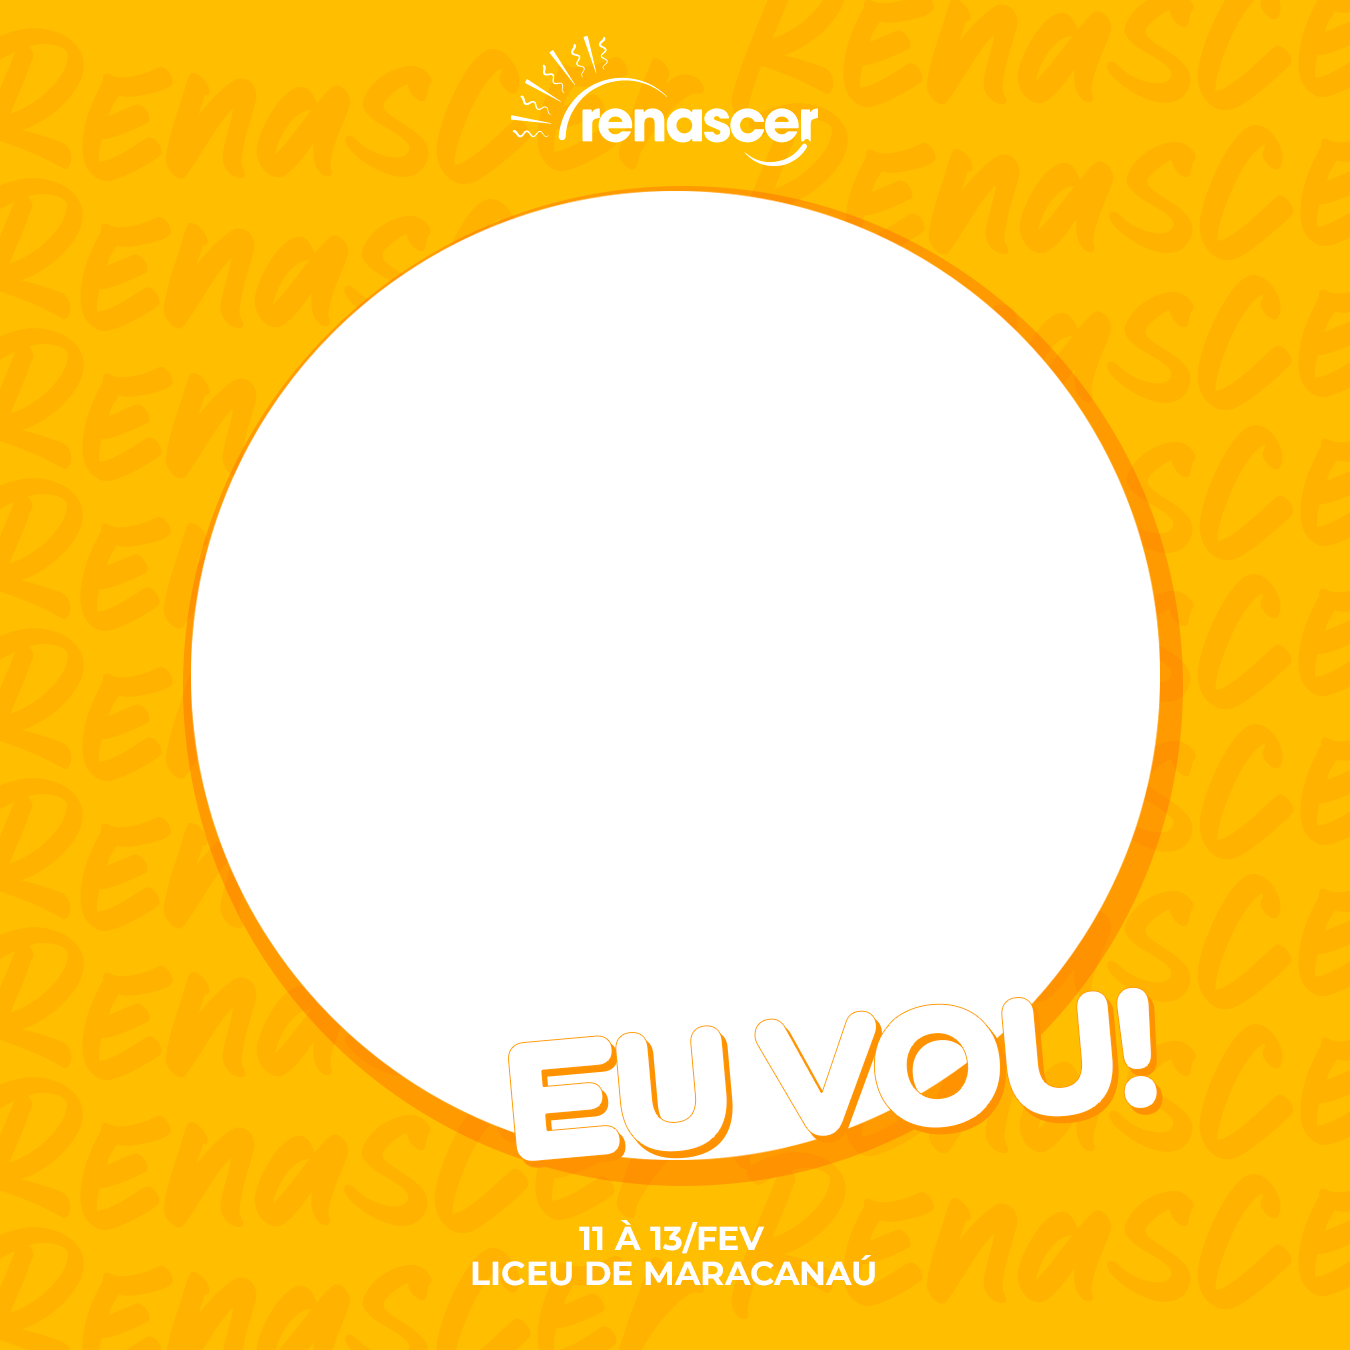
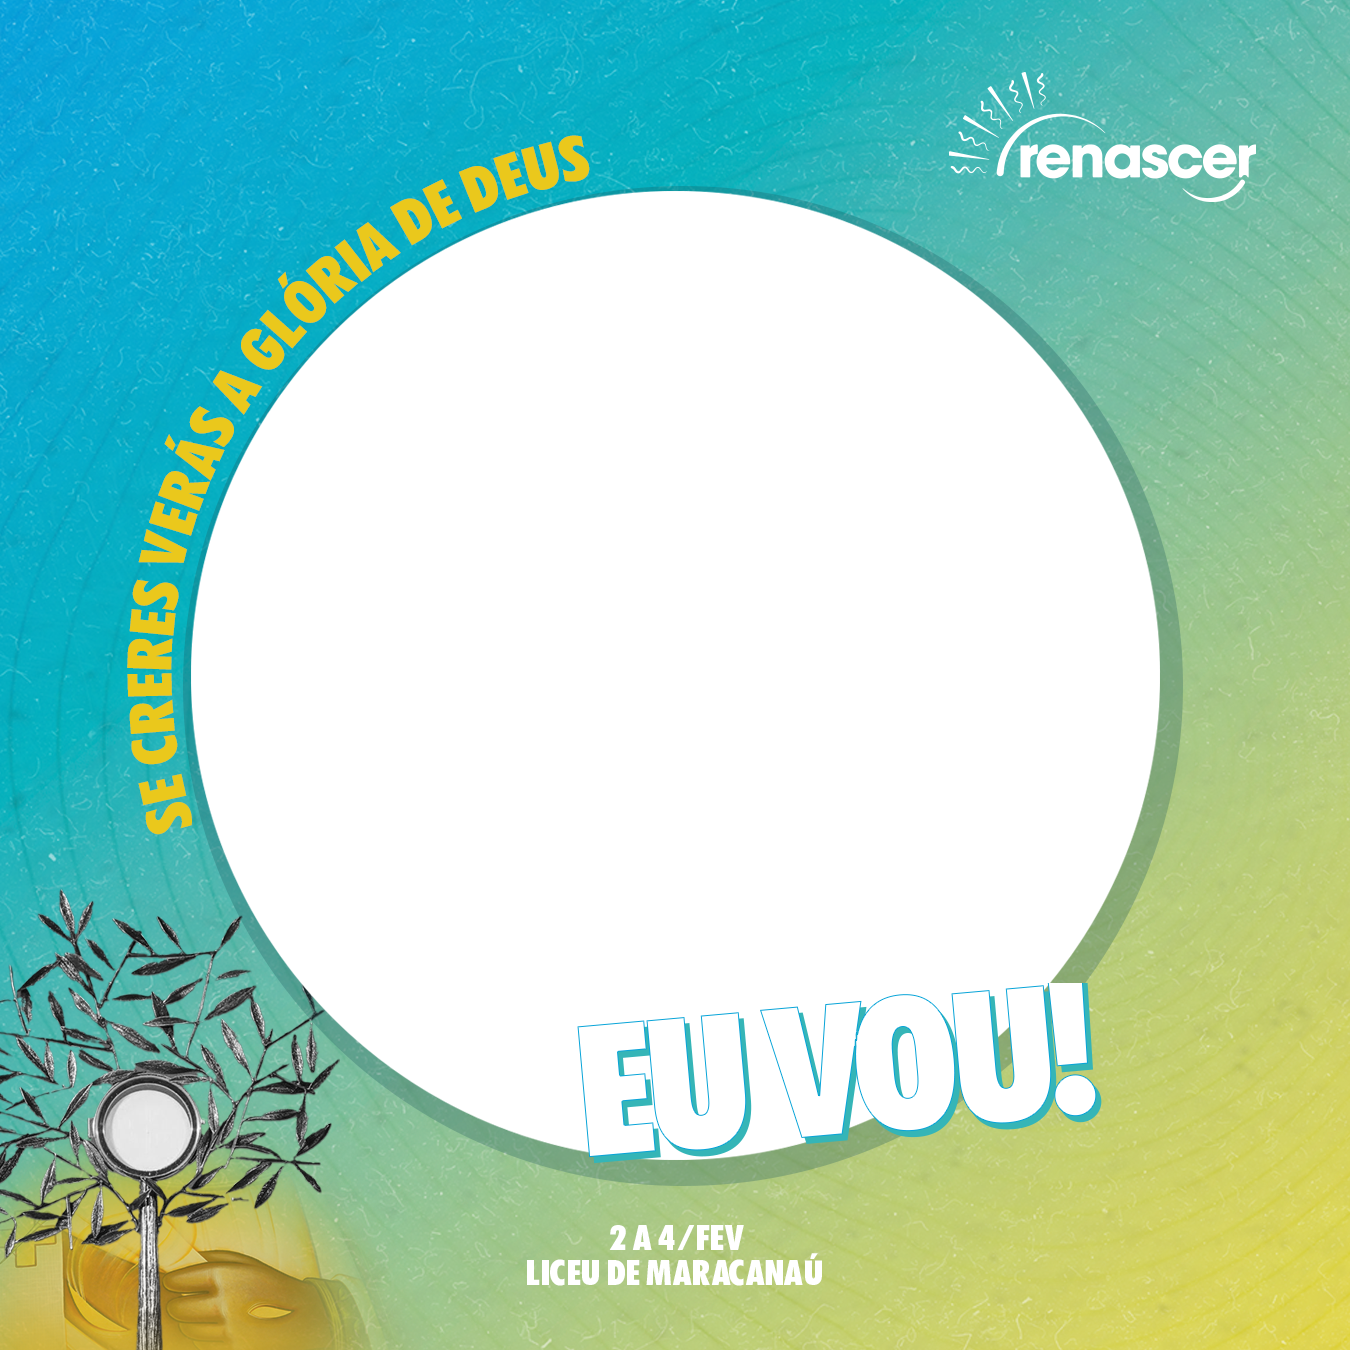
feat: update for renascer 2k25

diff --git a/pages/index.vue b/pages/index.vue
@@ -13,21 +13,21 @@ const buttons = [
   //   to: "https://forms.gle/SznS7rHYNp6Aq6WW6",
   //   target: "_blank",
   // },
+  {
+    text: "Personalizar foto do Perfil",
+    to: "/tools/profile-customization",
+    target: "",
+  },
   // {
-  //   text: "Personalizar foto do Perfil",
-  //   to: "/tools/profile-customization",
-  //   target: "",
+  //   text: "🎶 Audições: Show Resposta",
+  //   to: "https://forms.gle/hDrZsz1VEMvnWAQA8",
+  //   target: "_blank",
   // },
-  {
-    text: "🎶 Audições: Show Resposta",
-    to: "https://forms.gle/hDrZsz1VEMvnWAQA8",
-    target: "_blank",
-  },
-  {
-    text: "Conheça nosso CEV",
-    to: "https://maps.app.goo.gl/EHbuBNbgBJwBXvuX6?g_st=ic",
-    target: "_blank",
-  },
+  // {
+  //   text: "Conheça nosso CEV",
+  //   to: "https://maps.app.goo.gl/EHbuBNbgBJwBXvuX6?g_st=ic",
+  //   target: "_blank",
+  // },
 ];
 </script>
 <template>
@@ -35,7 +35,7 @@ const buttons = [
     <div class="my-8">
       <header class="flex flex-col items-center">
         <img
-          src="./../assets/images/logos/logo-home.jpg"
+          src="./../assets/images/logos/logo-home.png"
           alt="Logo da Comunidade Católica Shalom"
           class="mx-auto w-[78px] md:w-[96px] mb-4 rounded-full"
         />
@@ -48,7 +48,7 @@ const buttons = [
         <a
           href="https://instagram.com/shalommaracanau"
           target="_blank"
-          class="click mt-3 text-[#593473] font-bold text-xs md:text-sm bg-white rounded py-1 px-2"
+          class="click mt-3 font-bold text-xs md:text-sm bg-white rounded py-1 px-2"
           >@shalommaracanau</a
         >
       </header>
@@ -57,7 +57,7 @@ const buttons = [
       <ul class="grid grid-flow-row gap-3">
         <NuxtLink
           v-for="btn in buttons"
-          class="click text-center bg-white rounded text-[#775494] py-3 px-6 font-extrabold w-full"
+          class="click text-center bg-white rounded py-3 px-6 font-extrabold w-full"
           :to="btn.to"
           :target="btn.target"
           >{{ btn.text }}

diff --git a/components/molecules/avatar-customization-tool.vue b/components/molecules/avatar-customization-tool.vue
@@ -1,10 +1,9 @@
 <script setup lang="ts">
 import { createTextVNode } from "vue";
 import {
-  Cropper,
-  Preview,
   CircleStencil,
-  type CropperResult,
+  Cropper,
+  type CropperResult
 } from "vue-advanced-cropper";
 import "vue-advanced-cropper/dist/style.css";
 
@@ -145,7 +144,7 @@ onUnmounted(() => {
       </div>
 
       <button
-        class="w-full mt-3 bg-white text-[#e84411] rounded py-3 px-6 font-extrabold"
+        class="w-full mt-3 bg-white rounded py-3 px-6 font-extrabold"
         @click="file.click()"
       >
         Selecionar Foto
@@ -192,7 +191,7 @@ onUnmounted(() => {
       </div>
       <button
         v-if="!!result.canvas.toDataURL"
-        class="w-full mt-3 bg-white text-[#e84411] rounded py-3 px-6 font-extrabold"
+        class="w-full mt-3 bg-white rounded py-3 px-6 font-extrabold"
         @click="download"
       >
         Baixar Imagem

diff --git a/assets/css/main.css b/assets/css/main.css
@@ -1,12 +1,12 @@
 @import url("https://fonts.googleapis.com/css2?family=DM+Sans:opsz,wght@9..40,100;9..40,200;9..40,300;9..40,400;9..40,500;9..40,600;9..40,700;9..40,800;9..40,900;9..40,1000&display=swap");
 
 body {
+  @apply bg-gradient-to-br from-[#0097f4] to-[#fae100];
   font-family: "DM Sans", sans-serif;
   font-size: 14px;
   font-weight: 400;
   line-height: 1.5;
   color: #212529;
-  background-color: #e84411;
 }
 
 button:active {
@@ -19,22 +19,4 @@ button:active {
 
 .click:active {
   transform: scale(0.98);
-}
-
-/* scroll */
-::-webkit-scrollbar {
-  width: 10px;
-}
-
-::-webkit-scrollbar-track {
-  background: #ec7652;
-}
-
-::-webkit-scrollbar-thumb {
-  background: #b6330b;
-  border-radius: 100px;
-}
-
-::-webkit-scrollbar-thumb:hover {
-  background: #7a2308;
 }

diff --git a/pages/tools/profile-customization.vue b/pages/tools/profile-customization.vue
@@ -8,8 +8,8 @@ import AvatarCustomizationTool from "~/components/molecules/avatar-customization
 <template>
   <header class="text-center py-5 text-white mb-3 md:mb-6 mx-auto w-[80%] md:w-auto">
     <img src="../../assets/images/logos/renascer-2024.svg" class="mx-auto w-[100px] md:w-[150px]" />
-    <p class="text-xs text-white italic mb-4">11 à 13/fev - Liceu de Maracanaú</p>
-    <h1 class="font-extrabold text-lg md:text-2xl">Renascer... <span class="text-[#fae197]">Eu vou!</span></h1>
+    <p class="text-xs text-white italic mb-4">2 a 4/mar - Liceu de Maracanaú</p>
+    <h1 class="font-extrabold text-lg md:text-2xl">Renascer... Eu vou!</h1>
     <h2 class="text-sm md:text-base">
       Personalize sua foto de perfil com a imagem do Renascer 2024!
     </h2>

diff --git a/nuxt.config.ts b/nuxt.config.ts
@@ -5,7 +5,7 @@ export default defineNuxtConfig({
       meta: [
         { charset: "utf-8" },
         { name: "viewport", content: "width=device-width, initial-scale=1" },
-        { name: "theme-color", content: "#e84411" },
+        { name: "theme-color", content: "#0097f4" },
         {
           name: "keywords",
           content:

diff --git a/layouts/default.vue b/layouts/default.vue
@@ -7,6 +7,5 @@
 <style scoped>
 .main-default {
   @apply min-h-svh pb-20 w-[80svw] md:w-auto mx-auto md:mx-0;
-  @apply bg-[#775494];
 }
 </style>
